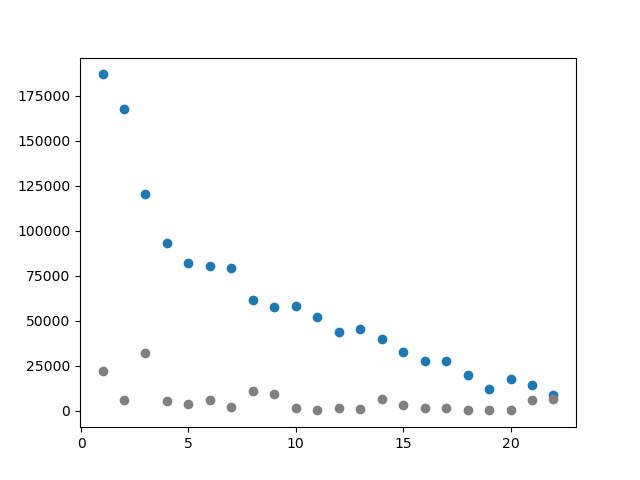
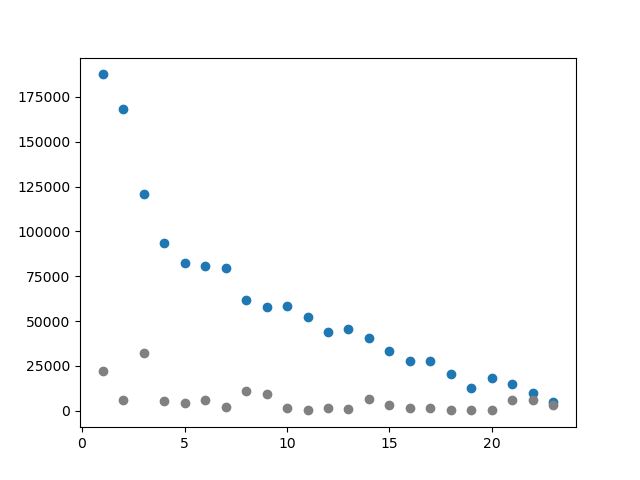
Day23 part 1

diff --git a/day23/1.py b/day23/1.py
@@ -1,0 +1,225 @@
+#!/usr/bin/python3
+import logging
+from functools import cache
+
+#############
+#...........#
+###D#B#B#A###
+  #C#C#D#A#
+  #########
+
+
+# We will use a tuple to serialize state
+# A=1, B=2, C=3, D=4, 0=empty
+# Series of numbers of positions as S1 S1, S2, S2, S3, S3, S4, S4, H1..11
+# each pair of Sn is the lower,upper side-room position... in order
+#
+# e.g the starting state = (3,4,3,2,4,2,1,1,0,0,0,0,0,0,0,0,0,0,0)
+# and the target state   = (1,1,2,2,3,3,4,4,0,0,0,0,0,0,0,0,0,0,0)
+
+# We will serialize the current/best energy spends to an additional last two positions.
+
+start = (3,4,3,2,4,2,1,1,0,0,0,0,0,0,0,0,0,0,0,0,0,0)
+teststart = (1,2,4,3,3,2,1,4,0,0,0,0,0,0,0,0,0,0,0,0,0)
+
+
+# Rules
+
+# No stop immediately outside room => H3, H5, H7, H9 forbidden 
+# or hallways=state[8:-1], hall[2,4,6,8]
+
+# No entering room unless it is target room *and* only target amphipods present.
+
+# Once in hallway - next stop has to be a room.
+# (And that must be the target room due to rule 2...)
+
+# Obvs - cannot pass thru others...
+
+# For recursion - should not cost more than current best score.
+
+entrancesIdx = (10,12,14,16)
+
+@cache
+def nextStates(st):
+    global best
+    # printState(st)
+    score = lambda a,moves : moves * (10**(a-1))
+    hallindexoutsideroom = lambda a : (2*a)+8
+
+    if st[:8] == (1,1,2,2,3,3,4,4):
+        print("Finished score",st[19])
+        if st[19] < best:
+            logging.info("Finished new best score",st[19])
+            best = st[19]
+        else:
+            logging.debug("Finished score",st[19])
+        printState(st)       
+        return []
+
+    if st[19] > best:
+        logging.debug(f"Abort {st[19]} larger {best}")
+        return []
+
+    ns = []
+    for i,a in enumerate(st[0:19]): 
+        if(a>0): # Something to move?
+            if i < 8:  # Rooms
+
+                # Don't move out of endpos...
+
+                if i in (0,2,4,6): # Bottom room
+                    if i == 2*(a-1): # Target Room
+                        logging.debug(f"a{a} at {i} in target room (lower)")
+                        continue
+
+                    if st[i+1]:  # No way out past...
+                        logging.debug(f"a{a} at {i} no way out past {st[i+1]}")
+                        continue
+
+                    rmoves=2 # We step into the corridor
+                    logging.debug(f"Possible Lower step into corridor for a{a} at idx:{i}")
+                else: # Upper Rooms
+                    # Here we must check we have not trapped another class below us...
+                    if i-1 == 2*(a-1) and st[i-1] == a: # Target Room
+                        logging.debug(f"a{a} at {i} in target room (upper)")
+                        continue
+
+
+                    rmoves=1 # We step into the corridor
+                    logging.debug(f"Possible Upper step into corridor for a{a} at idx:{i}")
+
+                hallindexoutside = hallindexoutsideroom((i//2)+1) # (a)
+                # To the Left
+                for hallpos in range(hallindexoutside-1,7,-1):
+                    if st[hallpos] == 0 and hallpos not in entrancesIdx:
+                        newsta = [x for x in st]
+                        newsta[hallpos] = a
+                        newsta[i] = 0
+                        newsta[19] += score(a,rmoves+(hallindexoutside-hallpos))
+                        ns.append(tuple(newsta))
+                    elif st[hallpos] != 0:
+                        break # We are done...
+
+                # To the Right
+                # Note that we don't check the interim here because we are doing it incrementatlly and breaking.
+                for hallpos in range(hallindexoutside+1,19):
+                    logging.debug(f"a:{a} i:{i} hp:{hallpos} st:{st[hallpos]} h-i-outside{hallindexoutside}")
+                    if st[hallpos] == 0 and hallpos not in entrancesIdx:
+                        newsta = [x for x in st]
+                        newsta[hallpos] = a
+                        newsta[i] = 0
+                        newsta[19] += score(a,rmoves+(hallpos-hallindexoutside))
+                        ns.append(tuple(newsta))
+                    elif st[hallpos] != 0:
+                        break # We are done...
+                
+                
+            else: # i>=8 => Corridor 
+                targethallidx = 8 + (a * 2) # 10,12,14,16 in world idx
+                assert targethallidx in entrancesIdx
+                logging.debug(f"i:{i} Targethallindex: {targethallidx}")
+                if ( i<targethallidx and not any(st[i+1:targethallidx+1]) ) or ( targethallidx<i and not any(st[targethallidx:i]) ) :
+                    
+                    if i<targethallidx:
+                        moves = targethallidx-i
+                    else:
+                        moves = i-targethallidx
+                    logging.debug(f"Clear to hall outside room {i} {a} in {moves} moves")
+                    j = 2*(a-1) # j is side-room-offset into state array, for given ammphi a is 1-based...
+                    if st[j] == 0 and st[j+1]==0:
+                        logging.debug(f"Move to sideroom-low is valid")
+                        moves += 2
+                        newsta = [x for x in st]
+                        newsta[j] = a
+                        newsta[i] = 0       
+                        newsta[19] += score(a,moves) # Add score
+                        ns.append(tuple(newsta))
+                    elif st[j] == a and st[j+1]==0:     
+                        logging.debug(f"Move to sideroom-high is valid")
+                        moves += 1
+                        newsta = [x for x in st]
+                        newsta[j+1] = a
+                        newsta[i] = 0
+                        newsta[19] += score(a,moves)
+                        ns.append(tuple(newsta))
+    
+    # if len(ns) == 0:
+    #     print("==== NO MORE MOVES ==== ")
+    #     printState(st)
+    #     print("==== END NO MORE MOVES ==== ")
+
+    # print(f"Score {st[19]} Looping {len(ns)} more")
+    return [ nextStates(x) for x in ns ]
+
+def printState(st):
+    hall=st[8:19]
+    siderooms = list(zip(st[0:8:2],st[1:8:2]))
+    score=st[19]
+    minscore=best
+    halltxt="".join([str(x) if x>0 else "." for x in hall])
+    sideroomuppertxt = "#".join([ str(r[1]) for r in siderooms ])
+    sideroomlowertxt = "#".join([ str(r[0]) for r in siderooms ])
+
+    halltxt = halltxt.replace("1","A").replace("2","B").replace("3","C").replace("4","D").replace("0",".")
+    sideroomuppertxt = sideroomuppertxt.replace("1","A").replace("2","B").replace("3","C").replace("4","D").replace("0",".")
+    sideroomlowertxt = sideroomlowertxt.replace("1","A").replace("2","B").replace("3","C").replace("4","D").replace("0",".")
+
+    print(f"############# Score: {score}")
+    print(f"#{halltxt}# Best:  {minscore}")
+    print(f"###{sideroomuppertxt}###")
+    print(f"  #{sideroomlowertxt}#  ")
+    print(f"  #########\n\n{st}")
+
+l = logging.getLogger()
+l.setLevel(logging.DEBUG)
+l.setLevel(logging.INFO)
+
+
+# teststart=(1,0,4,0,3,0,1,4,0,0,0,2,0,0,0,2,0,3,0,0,0) # was broken
+# teststart=(1,0,2,2,3,0,4,0,3,0,0,0,0,0,0,0,0,1,4,0,0) # easy
+
+best=99999999
+n=nextStates(teststart)
+assert best==12521 
+print(f"Test Best {best}")
+
+best=99999999
+n=nextStates(start)
+print(f"Part 1Best {best}")
+
+
+
+# Random interim unit-tests from partial implementation.
+
+# t1=(1,1,2,2,3,0,4,0,3,0,0,0,0,0,0,0,0,0,4,0,0)
+# t1=(1,0,2,2,3,0,4,0,3,0,0,0,0,1,0,0,0,0,4,0,0)
+# print("From:")
+# printState(t1)
+# print("To:")
+# for s in nextStates(t1):
+#     printState(s)
+
+# assert nextStates((1,1,2,2,3,0,4,0,3,0,0,0,0,0,0,0,0,0,4,0,0)) == [
+# (1, 1, 2, 2, 3, 3, 4, 0, 0, 0, 0, 0, 0, 0, 0, 0, 0, 0, 4, 700, 0),
+# (1, 1, 2, 2, 3, 0, 4, 4, 3, 0, 0, 0, 0, 0, 0, 0, 0, 0, 0, 3000, 0)
+# ]
+
+# assert nextStates((1,0,2,2,3,0,4,0,3,0,0,0,0,1,0,0,0,0,4,0,0)) == [
+# (1, 1, 2, 2, 3, 0, 4, 0, 3, 0, 0, 0, 0, 0, 0, 0, 0, 0, 4, 4, 0),
+# (1, 0, 2, 2, 3, 0, 4, 4, 3, 0, 0, 0, 0, 1, 0, 0, 0, 0, 0, 3000, 0)
+# ]
+
+# assert nextStates((1,0,2,2,3,0,4,0,3,0,0,0,0,0,0,0,0,1,4,0,0)) == [
+# (1, 0, 2, 2, 3, 3, 4, 0, 0, 0, 0, 0, 0, 0, 0, 0, 0, 1, 4, 700, 0),
+# (1, 1, 2, 2, 3, 0, 4, 0, 3, 0, 0, 0, 0, 0, 0, 0, 0, 0, 4, 8, 0)
+# ]
+
+# t1=(1,0,2,2,3,0,4,0,3,0,0,0,0,0,0,1,0,0,4,0,0)
+
+# print("From:")
+# printState(t1)
+# print("To:")
+# for s in nextStates(t1):
+#     printState(s)
+
+

diff --git a/completers.py b/completers.py
@@ -5,28 +5,29 @@ import matplotlib.pyplot as plt
 import re
 
 website="""
-22    8522   6537  ****
-21   14470   5837  *****
-20   17672    304  *****
-19   12293    266  ****
-18   19925    167  *****
-17   27543   1286  *******
-16   27602   1496  *******
-15   32839   3051  ********
-14   39980   6280  **********
-13   45370    756  **********
-12   43655   1696  **********
-11   51835    244  ***********
-10   58153   1518  *************
- 9   57358   9178  *************
- 8   61604  10970  ***************
- 7   79183   2062  *****************
- 6   80257   6142  ******************
- 5   82047   3974  *****************
- 4   93195   5243  ********************
- 3  120330  32051  *******************************
- 2  167599   6195  ***********************************
- 1  186907  21883  *****************************************
+23    5127   2987  **
+22   10136   6160  ****
+21   15091   5950  *****
+20   18172    323  *****
+19   12619    271  ****
+18   20330    166  *****
+17   27927   1313  *******
+16   27941   1487  *******
+15   33172   3077  ********
+14   40298   6333  **********
+13   45736    763  **********
+12   43987   1704  **********
+11   52193    245  ***********
+10   58557   1532  *************
+ 9   57724   9271  **************
+ 8   61971  11032  ***************
+ 7   79624   2078  *****************
+ 6   80676   6176  ******************
+ 5   82429   4022  *****************
+ 4   93658   5287  ********************
+ 3  120865  32151  *******************************
+ 2  168285   6220  ***********************************
+ 1  187588  21969  *****************************************
 """
 a = website.split('\n')
 a.reverse()
